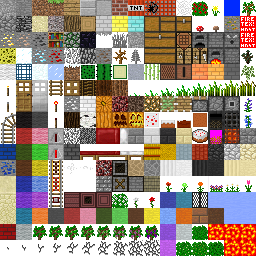
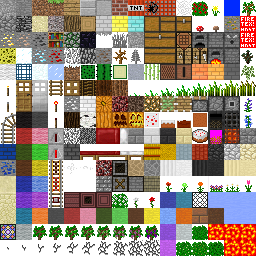
Stained Glass + Effective Tool Fixes

Changed region(s): [[0.75, 0.75, 0.8125, 0.8125], [0.0, 0.875, 0.0625, 0.9375]]

diff --git a/minecraft/net/minecraft/src/ItemPickaxe.java b/minecraft/net/minecraft/src/ItemPickaxe.java
@@ -1,7 +1,7 @@
 package net.minecraft.src;
 
 public class ItemPickaxe extends ItemTool {
-	private static Block[] blocksEffectiveAgainst = new Block[]{Block.cobblestone, Block.stairDouble, Block.stairSingle, Block.stone, Block.sandStone, Block.cobblestoneMossy, Block.oreIron, Block.blockSteel, Block.oreCoal, Block.blockGold, Block.oreGold, Block.oreDiamond, Block.blockDiamond, Block.ice, Block.netherrack, Block.oreLapis, Block.blockLapis, Block.oreCopper, Block.oreTin, Block.oreSilver, Block.blockCopper, Block.blockTin, Block.blockBronze, Block.blockSilver, Block.blockLead, Block.oreLead, Block.purifiedNetherstone, Block.netherstone, Block.smoothSandstone, Block.purifiedNetherstonePillar, Block.netherstonePillar, Block.sandstonePillar, Block.purifiedNetherstoneBricks, Block.netherstoneBricks, Block.sandstoneBricks, Block.stoneBricks, Block.cobbleBricks, Block.brick, Block.flintBricks, Block.tileBricks, Block.stairTiles, Block.stairShingles, Block.slabTileSingle, Block.slabTileDouble, Block.slabShinglesSingle, Block.slabShinglesDouble, Block.whiteConcrete, Block.blackConcrete, Block.paintedTerracottaGray, Block.paintedTerracottaRed, Block.paintedTerracottaPink, Block.paintedTerracottaGreen, Block.paintedTerracottaLime, Block.paintedTerracottaBrown, Block.paintedTerracottaYellow, Block.paintedTerracottaBlue, Block.paintedTerracottaCyan, Block.paintedTerracottaLightBlue, Block.paintedTerracottaOrange, Block.paintedTerracottaIndigo, Block.paintedTerracottaLightGray, Block.paintedTerracottaViolet, Block.stoneOvenIdle, Block.stoneOvenActive, Block.mill};
+	private static Block[] blocksEffectiveAgainst = new Block[]{Block.cobblestone, Block.stairDouble, Block.stairSingle, Block.stone, Block.sandStone, Block.cobblestoneMossy, Block.oreIron, Block.blockSteel, Block.oreCoal, Block.blockGold, Block.oreGold, Block.oreDiamond, Block.blockDiamond, Block.ice, Block.netherrack, Block.oreLapis, Block.blockLapis, Block.oreCopper, Block.oreTin, Block.oreSilver, Block.blockCopper, Block.blockTin, Block.blockBronze, Block.blockSilver, Block.blockLead, Block.oreLead, Block.purifiedNetherstone, Block.netherstone, Block.smoothSandstone, Block.purifiedNetherstonePillar, Block.netherstonePillar, Block.sandstonePillar, Block.purifiedNetherstoneBricks, Block.netherstoneBricks, Block.sandstoneBricks, Block.stoneBricks, Block.cobbleBricks, Block.brick, Block.flintBricks, Block.tileBricks, Block.stairTiles, Block.stairShingles, Block.slabTileSingle, Block.slabTileDouble, Block.slabShinglesSingle, Block.slabShinglesDouble, Block.whiteConcrete, Block.blackConcrete, Block.paintedTerracottaGray, Block.paintedTerracottaRed, Block.paintedTerracottaPink, Block.paintedTerracottaGreen, Block.paintedTerracottaLime, Block.paintedTerracottaBrown, Block.paintedTerracottaYellow, Block.paintedTerracottaBlue, Block.paintedTerracottaCyan, Block.paintedTerracottaLightBlue, Block.paintedTerracottaOrange, Block.paintedTerracottaIndigo, Block.paintedTerracottaLightGray, Block.paintedTerracottaViolet, Block.stoneOvenIdle, Block.stoneOvenActive, Block.mill, Block.leadedGlass, Block.stainedGlass};
 
 	protected ItemPickaxe(int var1, EnumToolMaterial var2) {
 		super(var1, 2, var2, blocksEffectiveAgainst);

diff --git a/minecraft_server/net/minecraft/src/ItemPickaxe.java b/minecraft_server/net/minecraft/src/ItemPickaxe.java
@@ -59,7 +59,7 @@ public class ItemPickaxe extends ItemTool
     {
         blocksEffectiveAgainst = (new Block[] {
             Block.cobblestone, Block.stairDouble, Block.stairSingle, Block.stone, Block.sandStone, Block.cobblestoneMossy, Block.oreIron, Block.blockSteel, Block.oreCoal, Block.blockGold, 
-            Block.oreGold, Block.oreDiamond, Block.blockDiamond, Block.ice, Block.bloodStone, Block.oreLapis, Block.blockLapis, Block.oreCopper, Block.oreTin, Block.oreSilver, Block.blockCopper, Block.blockTin, Block.blockBronze, Block.blockSilver, Block.blockLead, Block.oreLead, Block.purifiedNetherstone, Block.netherstone, Block.smoothSandstone, Block.purifiedNetherstonePillar, Block.netherstonePillar, Block.sandstonePillar, Block.purifiedNetherstoneBricks, Block.netherstoneBricks, Block.sandstoneBricks, Block.stoneBricks, Block.cobbleBricks, Block.brick, Block.flintBricks, Block.tileBricks, Block.stairTiles, Block.stairShingles, Block.slabTileSingle, Block.slabTileDouble, Block.slabShinglesSingle, Block.slabShinglesDouble, Block.whiteConcrete, Block.blackConcrete, Block.paintedTerracottaGray, Block.paintedTerracottaRed, Block.paintedTerracottaPink, Block.paintedTerracottaGreen, Block.paintedTerracottaLime, Block.paintedTerracottaBrown, Block.paintedTerracottaYellow, Block.paintedTerracottaBlue, Block.paintedTerracottaCyan, Block.paintedTerracottaLightBlue, Block.paintedTerracottaOrange, Block.paintedTerracottaIndigo, Block.paintedTerracottaLightGray, Block.paintedTerracottaViolet, Block.stoneOvenIdle, Block.stoneOvenActive, Block.mill
+            Block.oreGold, Block.oreDiamond, Block.blockDiamond, Block.ice, Block.bloodStone, Block.oreLapis, Block.blockLapis, Block.oreCopper, Block.oreTin, Block.oreSilver, Block.blockCopper, Block.blockTin, Block.blockBronze, Block.blockSilver, Block.blockLead, Block.oreLead, Block.purifiedNetherstone, Block.netherstone, Block.smoothSandstone, Block.purifiedNetherstonePillar, Block.netherstonePillar, Block.sandstonePillar, Block.purifiedNetherstoneBricks, Block.netherstoneBricks, Block.sandstoneBricks, Block.stoneBricks, Block.cobbleBricks, Block.brick, Block.flintBricks, Block.tileBricks, Block.stairTiles, Block.stairShingles, Block.slabTileSingle, Block.slabTileDouble, Block.slabShinglesSingle, Block.slabShinglesDouble, Block.whiteConcrete, Block.blackConcrete, Block.paintedTerracottaGray, Block.paintedTerracottaRed, Block.paintedTerracottaPink, Block.paintedTerracottaGreen, Block.paintedTerracottaLime, Block.paintedTerracottaBrown, Block.paintedTerracottaYellow, Block.paintedTerracottaBlue, Block.paintedTerracottaCyan, Block.paintedTerracottaLightBlue, Block.paintedTerracottaOrange, Block.paintedTerracottaIndigo, Block.paintedTerracottaLightGray, Block.paintedTerracottaViolet, Block.stoneOvenIdle, Block.stoneOvenActive, Block.mill, Block.leadedGlass, Block.stainedGlass
         });
     }
 }

diff --git a/minecraft_server/net/minecraft/src/Block.java b/minecraft_server/net/minecraft/src/Block.java
@@ -725,6 +725,7 @@ public class Block
 	public static final Block mudBricks;
 	public static final Block mud;
 	public static final Block leadedGlass;
+	public static final Block stainedGlass;
 	
     public int blockIndexInTexture;
     public final int blockID; 
@@ -925,6 +926,7 @@ public class Block
 	bush = (BlockFlower)(new BlockFlower(166, 236)).setHardness(0.0F).setStepSound(soundGrassFootstep).setBlockName("bush");
 	mudBricks = (new Block(167, 220, Material.ground)).setHardness(0.5F).setStepSound(soundGravelFootstep).setBlockName("mudBricks");
 	mud = (new Block(168, 221, Material.ground)).setHardness(0.5F).setStepSound(soundGravelFootstep).setBlockName("mud");
+	stainedGlass = (new BlockGlass(169, 224, Material.glass, false)).setHardness(0.3F).setStepSound(soundGlassFootstep).setBlockName("stainedGlass");
 
 		Item.itemsList[cloth.blockID] = (new ItemCloth(cloth.blockID - 256)).setItemName("cloth");
         Item.itemsList[wood.blockID] = (new ItemLog(wood.blockID - 256)).setItemName("log");

diff --git a/minecraft_server/net/minecraft/src/RecipesCrafting.java b/minecraft_server/net/minecraft/src/RecipesCrafting.java
@@ -77,6 +77,7 @@ public class RecipesCrafting
 		craftingmanager.addRecipe(new ItemStack(Block.leadedGlass, 9), new Object[]{"###", "#X#", "###", Character.valueOf('#'), Item.glassPane, Character.valueOf('X'), Item.ingotLead});
 		craftingmanager.addRecipe(new ItemStack(Block.mud, 8), new Object[]{"###", "#X#", "###", Character.valueOf('#'), Block.dirt, Character.valueOf('X'), Item.bucketWater});
 		craftingmanager.addRecipe(new ItemStack(Block.mudBricks, 4), new Object[]{"##", "##", Character.valueOf('#'), Block.mud});
+		craftingmanager.addRecipe(new ItemStack(Block.stainedGlass, 9), new Object[]{"C#D", "#X#", "A#B", Character.valueOf('#'), Item.glassPane, Character.valueOf('X'), Item.ingotLead, Character.valueOf('A'), new ItemStack(Item.dyePowder, 1, 11), Character.valueOf('B'), new ItemStack(Item.dyePowder, 1, 12), Character.valueOf('C'), new ItemStack(Item.dyePowder, 1, 1), Character.valueOf('D'), new ItemStack(Item.dyePowder, 1, 10) });
 
     }
 }

diff --git a/minecraft/net/minecraft/src/RecipesCrafting.java b/minecraft/net/minecraft/src/RecipesCrafting.java
@@ -61,5 +61,7 @@ public class RecipesCrafting {
 		var1.addRecipe(new ItemStack(Block.leadedGlass, 9), new Object[]{"###", "#X#", "###", Character.valueOf('#'), Item.glassPane, Character.valueOf('X'), Item.ingotLead});
 		var1.addRecipe(new ItemStack(Block.mud, 8), new Object[]{"###", "#X#", "###", Character.valueOf('#'), Block.dirt, Character.valueOf('X'), Item.bucketWater});
 		var1.addRecipe(new ItemStack(Block.mudBricks, 4), new Object[]{"##", "##", Character.valueOf('#'), Block.mud});
+		
+		var1.addRecipe(new ItemStack(Block.stainedGlass, 9), new Object[]{"C#D", "#X#", "A#B", Character.valueOf('#'), Item.glassPane, Character.valueOf('X'), Item.ingotLead, Character.valueOf('A'), new ItemStack(Item.dyePowder, 1, 11), Character.valueOf('B'), new ItemStack(Item.dyePowder, 1, 12), Character.valueOf('C'), new ItemStack(Item.dyePowder, 1, 1), Character.valueOf('D'), new ItemStack(Item.dyePowder, 1, 10) });
 	}
 }

diff --git a/minecraft/net/minecraft/src/Block.java b/minecraft/net/minecraft/src/Block.java
@@ -190,6 +190,7 @@ public class Block {
 	public static final BlockFlower bush = (BlockFlower)(new BlockFlower(166, 236)).setHardness(0.0F).setStepSound(soundGrassFootstep).setBlockName("bush");
 	public static final Block mudBricks = (new Block(167, 220, Material.ground)).setHardness(0.5F).setStepSound(soundGravelFootstep).setBlockName("mudBricks");
 	public static final Block mud = (new Block(168, 221, Material.ground)).setHardness(0.5F).setStepSound(soundGravelFootstep).setBlockName("mud");
+	public static final Block stainedGlass = (new BlockGlass(169, 224, Material.glass, false)).setHardness(0.3F).setStepSound(soundGlassFootstep).setBlockName("stainedGlass");
 
 	public int blockIndexInTexture;
 	public final int blockID;

diff --git a/minecraft/net/minecraft/src/ItemSpade.java b/minecraft/net/minecraft/src/ItemSpade.java
@@ -30,7 +30,7 @@ public class ItemSpade extends ItemTool
     static 
     {
         blocksEffectiveAgainst = (new Block[] {
-            Block.grass, Block.dirt, Block.sand, Block.gravel, Block.snow, Block.blockSnow, Block.blockClay, Block.tilledField
+            Block.grass, Block.dirt, Block.sand, Block.gravel, Block.snow, Block.blockSnow, Block.blockClay, Block.tilledField, Block.mud, Block.mudBricks
         });
     }
 }

diff --git a/minecraft_server/net/minecraft/src/ItemSpade.java b/minecraft_server/net/minecraft/src/ItemSpade.java
@@ -30,7 +30,7 @@ public class ItemSpade extends ItemTool
     static 
     {
         blocksEffectiveAgainst = (new Block[] {
-            Block.grass, Block.dirt, Block.sand, Block.gravel, Block.snow, Block.blockSnow, Block.blockClay, Block.tilledField
+            Block.grass, Block.dirt, Block.sand, Block.gravel, Block.snow, Block.blockSnow, Block.blockClay, Block.tilledField, Block.mud, Block.mudBricks
         });
     }
 }

diff --git a/minecraft_server/net/minecraft/src/FurnaceRecipes.java b/minecraft_server/net/minecraft/src/FurnaceRecipes.java
@@ -43,6 +43,7 @@ public class FurnaceRecipes
 		addSmelting(Item.rawPithos.shiftedIndex, new ItemStack(Block.pithos));
   	 	addSmelting(Block.blockClay.blockID, new ItemStack(Block.paintedTerracottaRed)); 
    	 	addSmelting(Block.sand.blockID, new ItemStack(Item.glassPane));
+    	        addSmelting(Block.mud.blockID, new ItemStack(Block.dirt));
     }
 
     public void addSmelting(int i, ItemStack itemstack)

diff --git a/minecraft/net/minecraft/src/FurnaceRecipes.java b/minecraft/net/minecraft/src/FurnaceRecipes.java
@@ -34,6 +34,7 @@ public class FurnaceRecipes {
 		this.addSmelting(Item.rawPithos.shiftedIndex, new ItemStack(Block.pithos));
 		this.addSmelting(Block.blockClay.blockID, new ItemStack(Block.paintedTerracottaRed));	
 		this.addSmelting(Block.sand.blockID, new ItemStack(Item.glassPane));
+		this.addSmelting(Block.mud.blockID, new ItemStack(Block.dirt));
 	}
 
 	public void addSmelting(int var1, ItemStack var2) {

diff --git a/minecraft/net/minecraft/src/ItemAxe.java b/minecraft/net/minecraft/src/ItemAxe.java
@@ -21,7 +21,7 @@ public class ItemAxe extends ItemTool
     static 
     {
         blocksEffectiveAgainst = (new Block[] {
-            Block.planks, Block.bookShelf, Block.wood, Block.chest
+            Block.planks, Block.bookShelf, Block.wood, Block.chest, Block.workbench, Block.sticks, Block.fence
         });
     }
 }

diff --git a/minecraft_server/net/minecraft/src/ItemAxe.java b/minecraft_server/net/minecraft/src/ItemAxe.java
@@ -21,7 +21,7 @@ public class ItemAxe extends ItemTool
     static 
     {
         blocksEffectiveAgainst = (new Block[] {
-            Block.planks, Block.bookShelf, Block.wood, Block.chest
+            Block.planks, Block.bookShelf, Block.wood, Block.chest, Block.workbench, Block.sticks, Block.fence
         });
     }
 }
